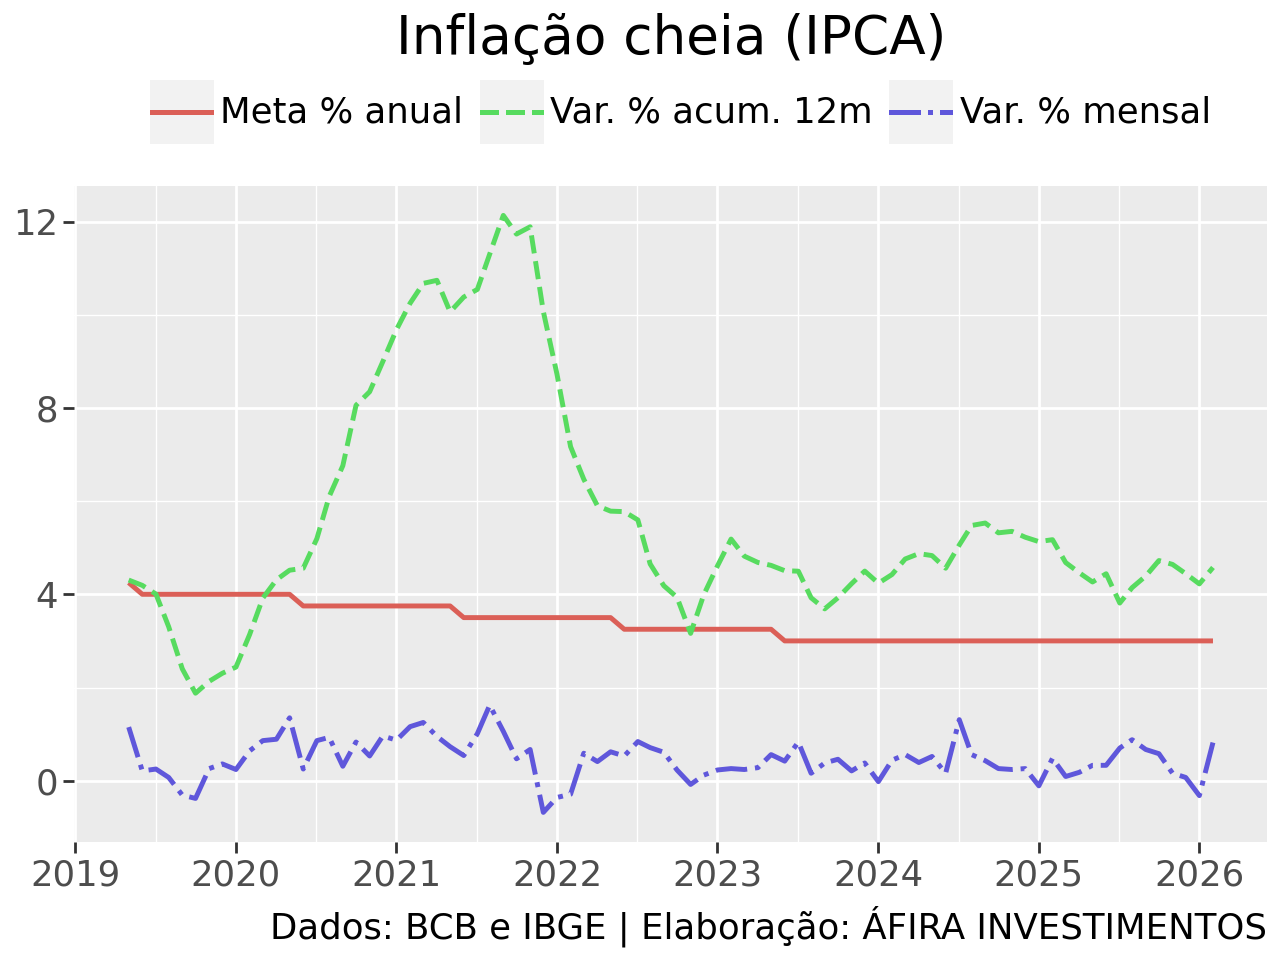
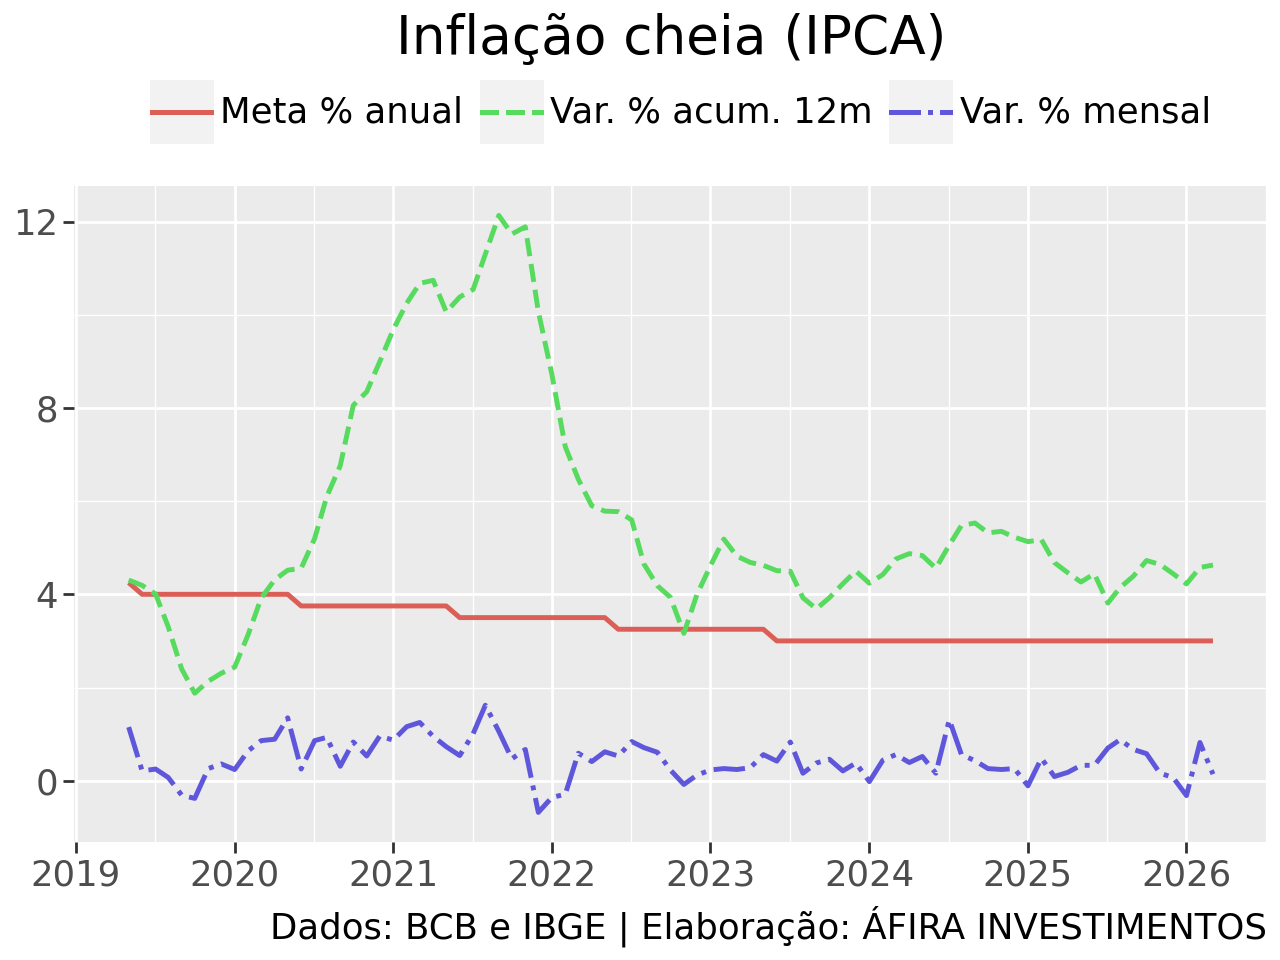
Atualização de relatório automatizada

diff --git a/projeto1/projeto1.html b/projeto1/projeto1.html
@@ -63,7 +63,7 @@ ul.task-list li input[type="checkbox"] {
     <div>
     <div class="quarto-title-meta-heading">Data de Publicação</div>
     <div class="quarto-title-meta-contents">
-      <p class="date">12 de novembro de 2026</p>
+      <p class="date">13 de novembro de 2026</p>
     </div>
   </div>
   
